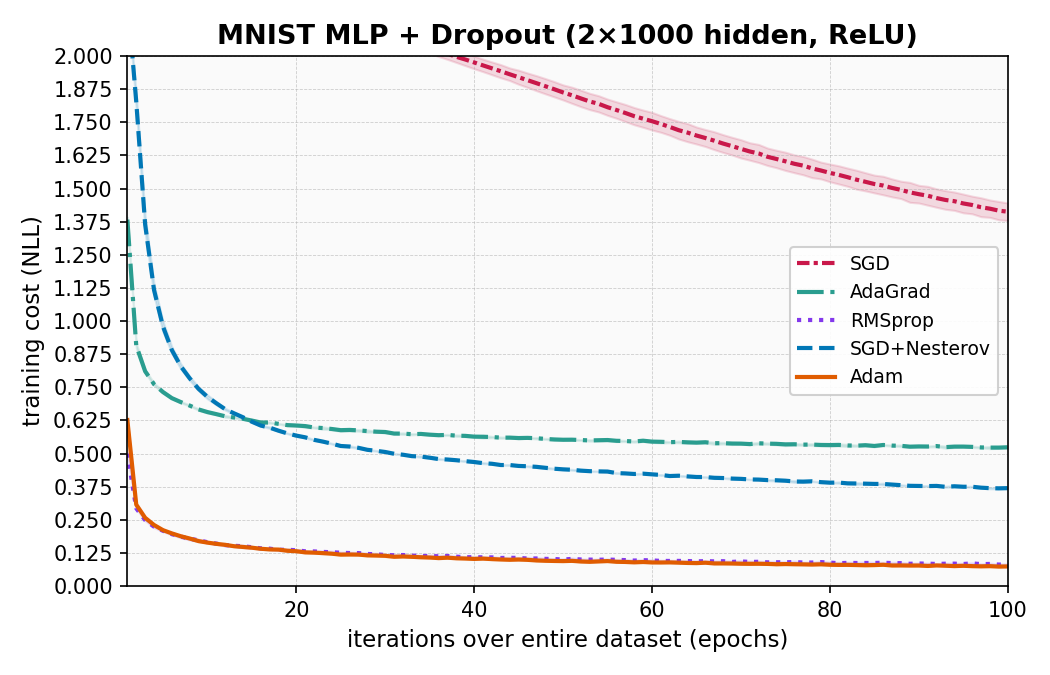
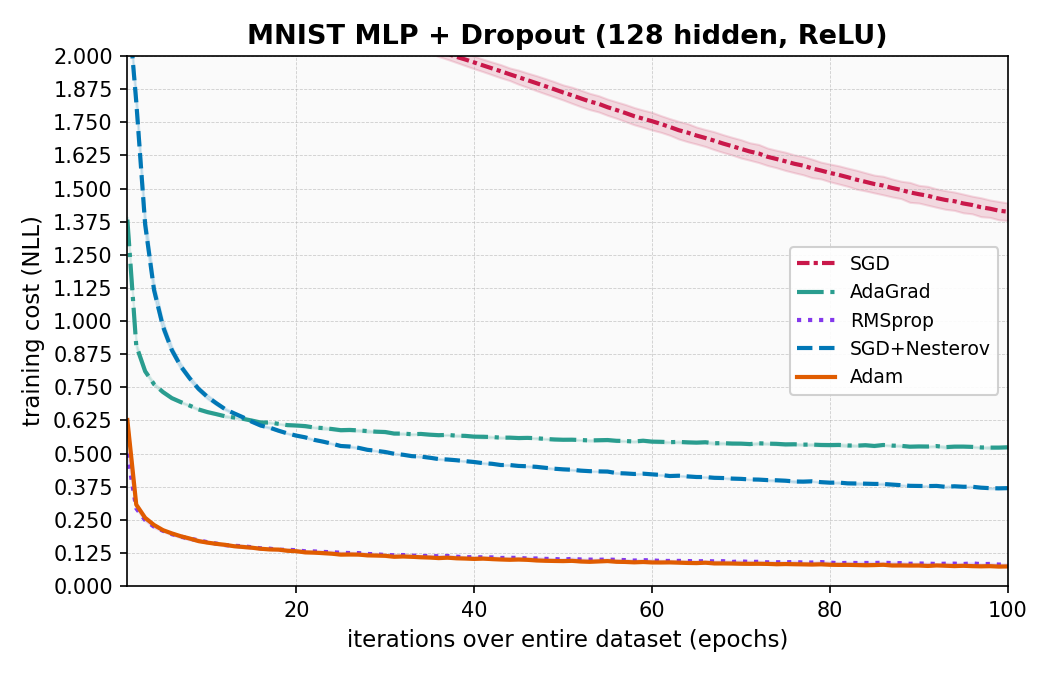
update for graph titles

Changed region(s): [[0.1829, 0.0311, 0.8838, 0.0933]]

diff --git a/src/ex2_multilayer-nn.py b/src/ex2_multilayer-nn.py
@@ -336,7 +336,7 @@ def make_figure(all_costs: dict, cfg: dict):
 
     ax.set_xlabel("iterations over entire dataset (epochs)", fontsize=11)
     ax.set_ylabel("training cost (NLL)", fontsize=11)
-    ax.set_title("MNIST MLP + Dropout (2×1000 hidden, ReLU)", fontsize=13,
+    ax.set_title("MNIST MLP + Dropout (128 hidden, ReLU)", fontsize=13,
                  fontweight="bold")
     ax.set_xlim(1, num_epochs)
     ax.set_ylim(0.0, 2.0)